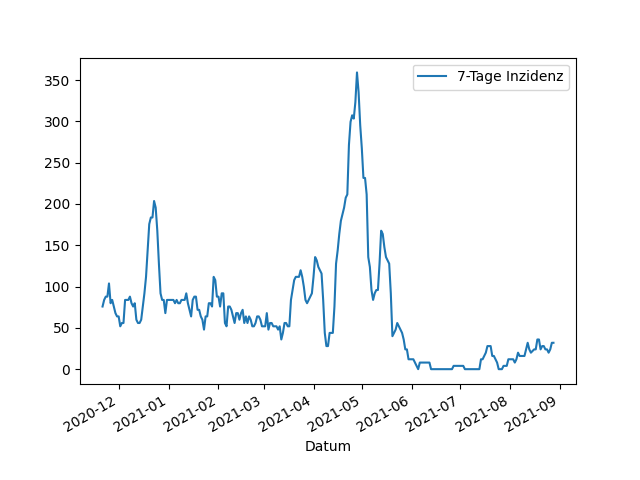
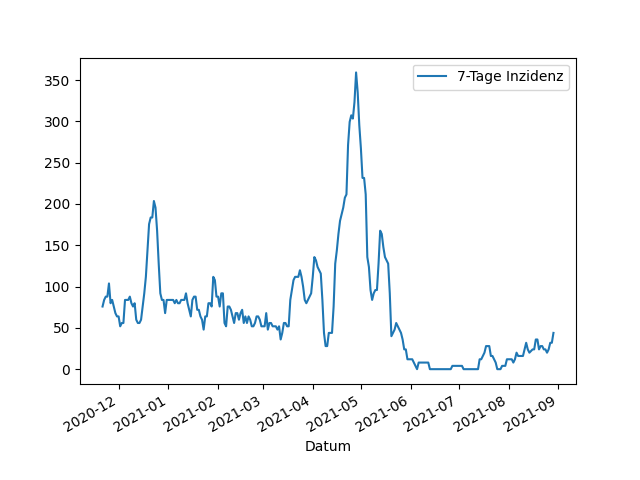
Update images

diff --git a/_includes/aktuelle_inzidenz.md b/_includes/aktuelle_inzidenz.md
@@ -1,1 +1,1 @@
-31,9
+43,9
